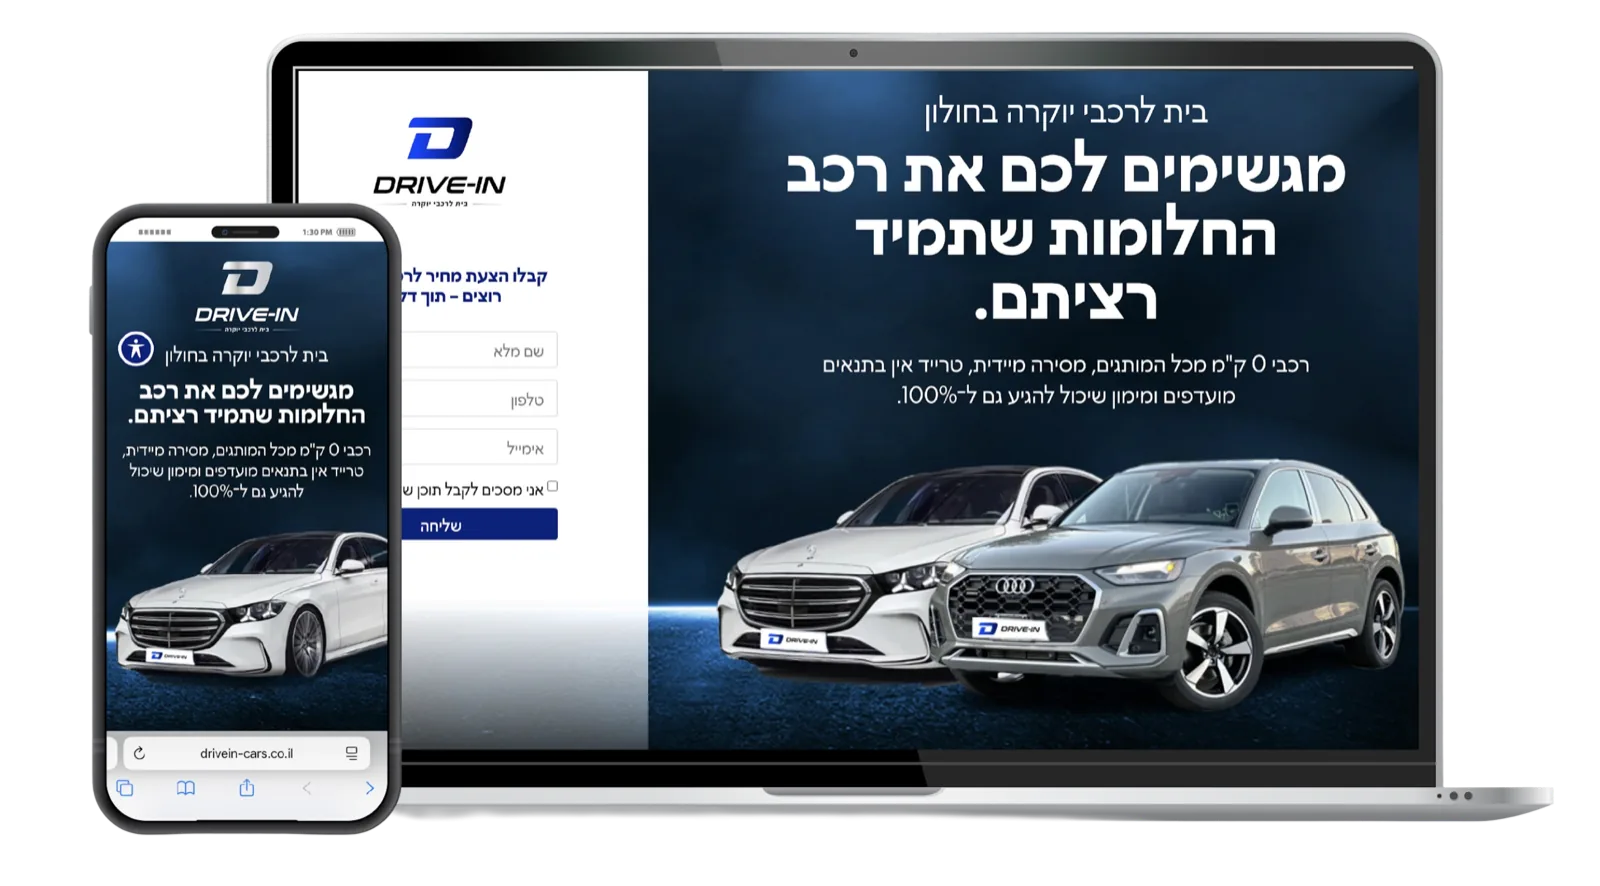
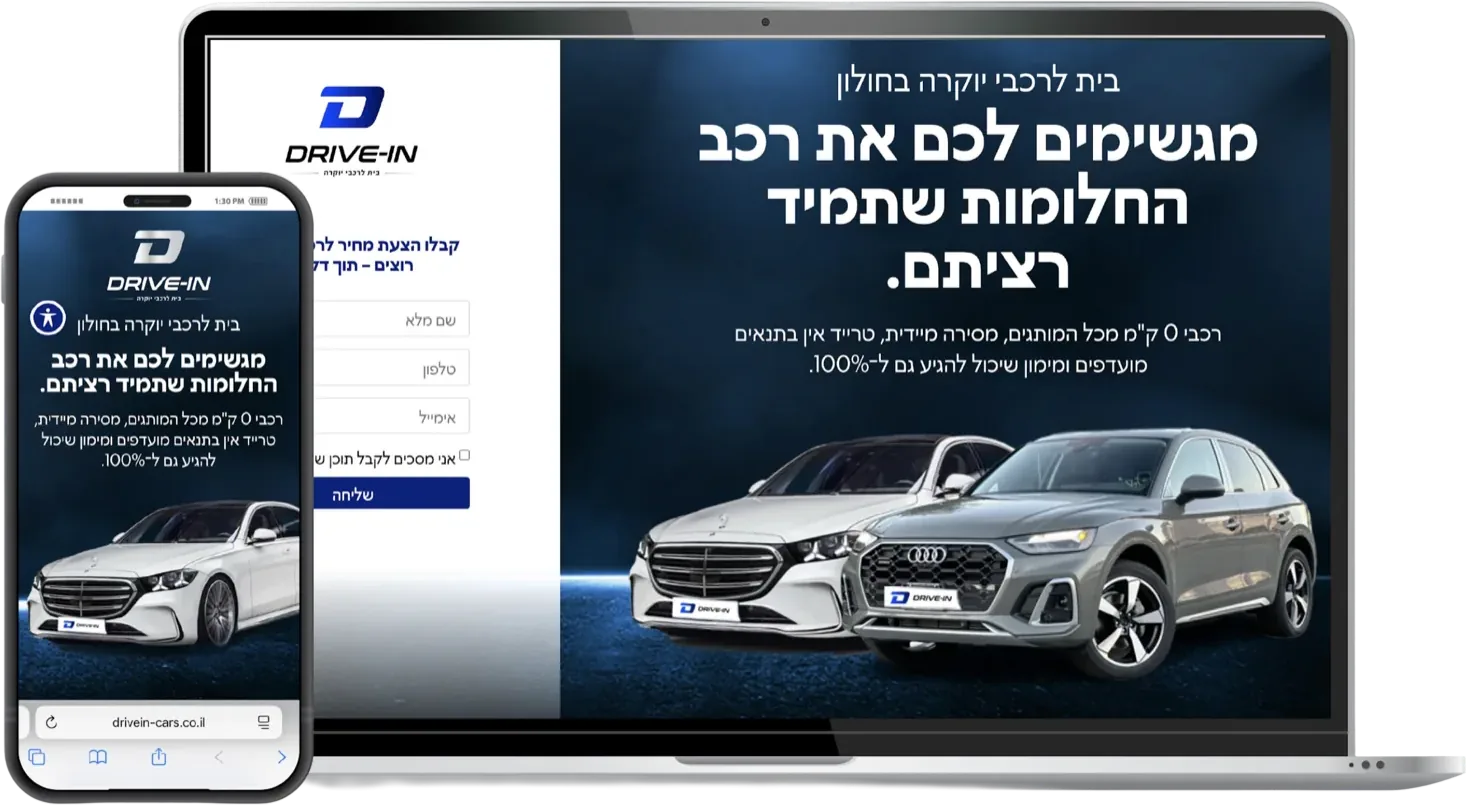
Trim the baked-in margin off the Drive-In devices photo so it rides the grid

diff --git a/space/graphic-design.html b/space/graphic-design.html
@@ -539,7 +539,9 @@
       position:relative;left:auto;top:auto;
       width:100%;height:100%;object-fit:contain;display:block;
     }
-    .gd-sec[data-gd="4"] .gd-stage .di-devices{grid-area:1/1/2/3;aspect-ratio:2776/1538;background:none;padding:0}
+    /* the devices photo is trimmed of its baked-in transparent margin, so it
+       now runs edge to edge on the grid */
+    .gd-sec[data-gd="4"] .gd-stage .di-devices{grid-area:1/1/2/3;aspect-ratio:1467/805;background:none;padding:0}
     /* the source photo carries its own white margin - trim it, keep the ratio */
     .gd-sec[data-gd="4"] .gd-stage .di-stationery{grid-area:2/1/3/3;aspect-ratio:1264/690}
     .gd-sec[data-gd="4"] .gd-stage .di-stationery img{object-fit:cover}
